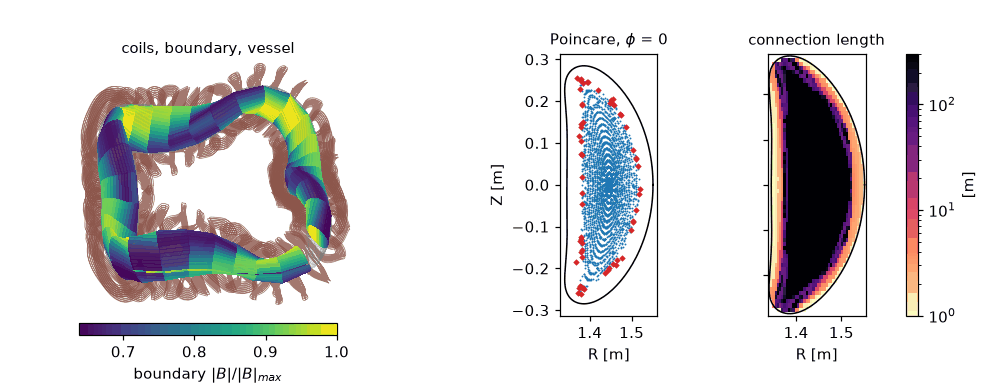
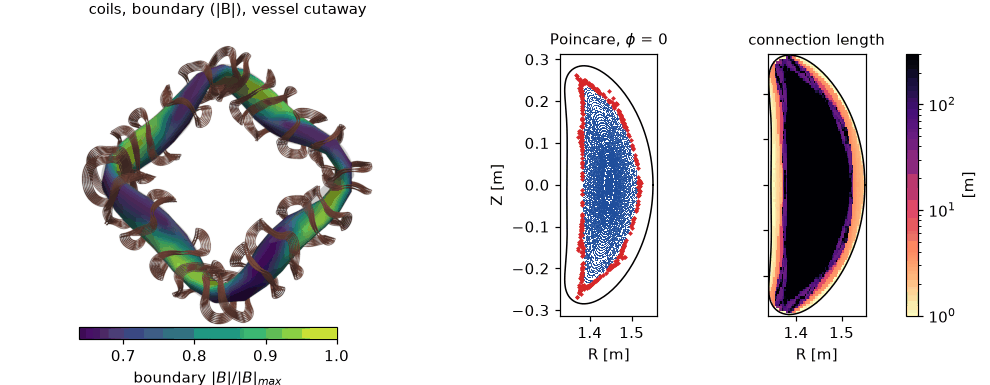
Docs: PyVista renders, developed-turbulence runs, tilted-plane figure, restructured SOL and HSX sections

diff --git a/examples/stellarator/hsx_fci_blob_render.py b/examples/stellarator/hsx_fci_blob_render.py
@@ -3,7 +3,7 @@
 README figures: N_POINCARE = 90 seeds x POINCARE_STEPS = 120000 (about 320 toroidal turns), CL_SHAPE = (72, 108);
 filament run: FINAL_TIME = 0.45, NUM_STEPS = 600, SAVE_EVERY = 20 with DENSITY_AMPLITUDE = 0.8,
 BLOB_CENTER = (0.8, 0.5), BLOB_WIDTH = 0.12 and RHO_STAR = 5e-3 (ten times the default rho*, a smaller or
-lower-field device) so the potential dipole develops clearly. The 600 steps took about 35 min on one A4000.
+lower-field device) so the potential dipole develops clearly, with the zero-flow wall closure. The 600 steps took about 35 min on one A4000.
 
 Runs ``drbx.fci_braginskii.run.run`` (the driver behind
 ``drbx run examples/inputs/hsx_fci_blob.toml``) on the canonical 32^3 HSX
@@ -54,6 +54,7 @@ DENSITY_AMPLITUDE = 0.8     # peak n - 1 of the seeded filament (backend default
 BLOB_CENTER = (0.8, 0.5)    # filament centre in the logical (radial, poloidal) square (default (0.65, 0.5))
 BLOB_WIDTH = 0.12           # filament width (default 0.10)
 RHO_STAR = 5.0e-3           # rho* = rho_s / L_ref; ExB and curvature drifts scale with it (default 5e-4)
+WALL_CLOSURE = "zero-flow"  # README movie: no-flow walls ("bohm" sheath outflow is the backend default)
 COILS = Path("examples/inputs/hsx/coils.hsx")            # MAKEGRID filaments (QHS: six main groups, 10722 A)
 VESSEL = Path("examples/inputs/hsx/vessel_hsx_flare.txt")  # vessel outline: 161 planes over one period
 TRACE_STEP = 0.02           # field-line step [m]
@@ -71,7 +72,7 @@ if RUN_SIMULATION:
     start = time.perf_counter()
     run(HsxBlobConfig(geometry=GEOMETRY, final_time=FINAL_TIME, num_steps=NUM_STEPS,
                       save_every=SAVE_EVERY, diagnostic_every=10, output=HISTORY_PATH,
-                      density_amplitude=DENSITY_AMPLITUDE, blob_center=BLOB_CENTER, blob_width=BLOB_WIDTH, rho_star=RHO_STAR))
+                      density_amplitude=DENSITY_AMPLITUDE, blob_center=BLOB_CENTER, blob_width=BLOB_WIDTH, rho_star=RHO_STAR, wall_closure=WALL_CLOSURE))
     print(f"simulation finished in {time.perf_counter() - start:.1f} s", flush=True)
 
 

diff --git a/README.md b/README.md
@@ -284,36 +284,38 @@ was contributed by Aiken Xie in [PR #3](https://github.com/uwplasma/drbx/pull/3)
 python examples/benchmarks/fci_sharded_strong_scaling.py
 ```
 
-## HSX geometry and scrape-off-layer filament (experimental)
+## HSX geometry and scrape-off-layer filament
 
 The HSX geometry is built from the coils in
 [`examples/inputs/hsx/coils.hsx`](examples/inputs/hsx/coils.hsx) (QHS currents)
 and the vessel outline [`vessel_hsx_flare.txt`](examples/inputs/hsx/vessel_hsx_flare.txt).
-The figure shows the coils, the boundary of the simulated domain colored by |B|
-and the vessel; a Poincare section at phi = 0 traced through the coil field
-(blue points stay inside the vessel for the whole trace, red diamonds mark lines
-that reach the wall); and the connection length to the wall on the same plane.
+The figure shows the coils (PyVista render), the boundary of the simulated
+domain colored by |B| and the vessel; a Poincare section at phi = 0 traced
+through the coil field (90 lines, about 320 toroidal turns each; blue points
+stay inside the vessel, red diamonds mark lines that reach the wall); and the
+connection length to the wall on the same plane.
 
 <img src="docs/media/hsx_geometry.png" width="800" alt="HSX coils, Poincare section and connection length">
 
-An experimental electrostatic Braginskii backend (`drbx run
-examples/inputs/hsx_fci_blob.toml`) evolves a seeded filament in the
-scrape-off layer up to the vessel wall on a 32^3 field-aligned grid (800 steps,
-t = 0.6 in L_ref/c_s, about 70 min on a laptop CPU). The movie shows the
-filament as field-aligned segments colored by density perturbation, over the
-boundary surface, with R-Z sections of density and potential through it; the
-t = 0 frame (zero potential) is skipped and the color limits come from the run.
-At this t (about 12 microseconds) the filament moves little: it decays from
-n - 1 = 4.7e-2 to 2.8e-2, drifts by one toroidal cell, and the potential
-builds up and relaxes. The model has no sheath, neutral or recycling coupling
-yet and needs a geometry bundle built with
-[`generate_hsx_fci_geometry.py`](generate_hsx_fci_geometry.py) (a CLI tool); see
-[docs/fci_braginskii_hsx_backend.md](docs/fci_braginskii_hsx_backend.md).
+The `drbx.fci_braginskii` backend evolves a density filament in the
+scrape-off layer up to the vessel wall. It has a Bohm sheath wall closure by
+default, with optional neutrals and recycling (deck keys `wall_closure`,
+`neutrals`, `recycling`; see [docs/decks.md](docs/decks.md)). The first run is
+`drbx run examples/inputs/hsx_fci_blob.toml`, which builds a 16^3 geometry from
+the shipped coils and vessel (about 4 min on a laptop). The movie is a 32^3 run
+(600 steps, t = 0.45 in L_ref/c_s, peak n - 1 = 0.8, rho* = 5e-3, zero-flow walls;
+about 35 min on one A4000): isosurfaces of the density perturbation along the
+field over the boundary surface, with R-Z sections of density and potential
+through the filament. The potential builds up as a dipole around the filament
+within the first t = 0.05. The filament itself stays close to its flux surface
+in this time: its density-weighted radial index moves from 16.9 to 16.5 of 32
+cells while the peak decays from 0.75 to 0.48. The geometry bundle is described
+in [docs/fci_braginskii_hsx_backend.md](docs/fci_braginskii_hsx_backend.md).
 
 <img src="docs/media/hsx_fci_blob.gif" width="700" alt="HSX filament in 3D">
 
 ```bash
-python examples/stellarator/hsx_fci_blob_render.py   # runs the backend, then renders both figures
+python examples/stellarator/hsx_fci_blob_render.py   # runs the backend, then renders both figures (drbx[viz])
 ```
 
 ## Tests
